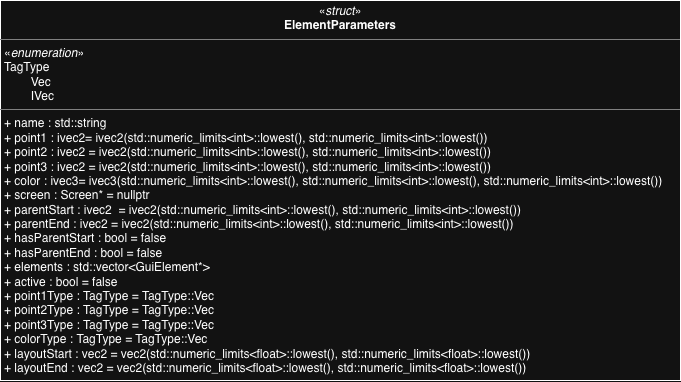
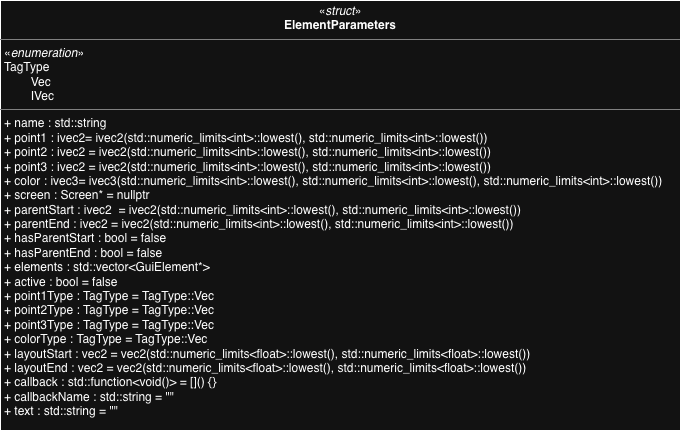
updated ElementParameters UML

Changed region(s): [[0.0, 0.0, 1.0, 1.0]]

diff --git a/README.md b/README.md
@@ -358,6 +358,8 @@ A struct passed to `Factory` to create a `GuiElement` object. Members are set to
 ### `enum class TagType { Vec, IVec }`
 Enumeration used to communicate whether the corresponding attribute is a float or integer mathematical vector
 
+---
+
 ### `std::string name`
 The desired name of the object
 
@@ -462,12 +464,18 @@ The relative starting position of a `Layout` object
 The relative ending position of a `Layout` object
 - Initialized to `vec2(std::numeric_limits<float>::lowest(), std::numeric_limits<float>::lowest())`
 
+---
+
 ### `std::function<void()> callback`
 A callback function used for `Button` objects. Called when a `Button` is clicked
 - Initialized to empty lambda function `[](){}`
 
+---
+
 ### `std::string callbackName`
 The name of the callback function for a `Button` object. Used to identify the callback when writing to an XML layout file
+
+---
 
 ### `std::string text`
 The text label for a `Button` object. Used to display text on the button and also written as a parameter in an XML layout file
